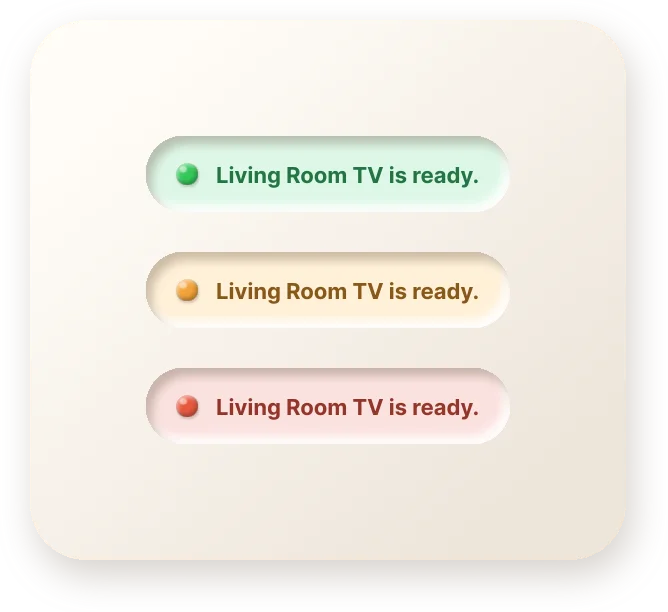
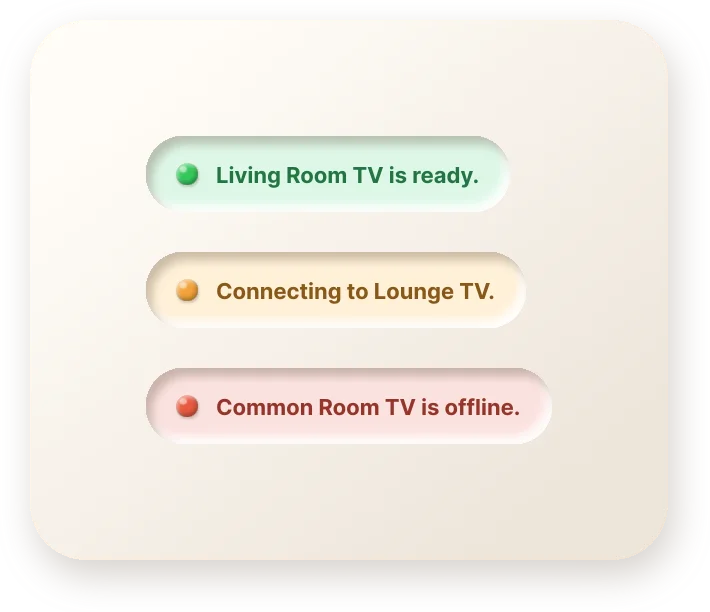
feat(work): recapture status-toasts sheet from Figma (98:2784)
Updated frame recaptured via SVG-strip recipe: distinct per-device toast
copy, 710x612, transparency preserved. Cell dims updated to match.

diff --git a/nextjs-app/shared/components/pages/Work/HomeRemote/HomeRemotePage.tsx b/nextjs-app/shared/components/pages/Work/HomeRemote/HomeRemotePage.tsx
@@ -308,7 +308,7 @@ export function HomeRemotePage({ nav }: { nav?: React.ReactNode }) {
             type: "image",
             src: "/images/portfolio/home-remote/sheet-toasts.webp",
             alt: "Status toasts in available, warning and error tints",
-            width: 668,
+            width: 710,
             height: 612,
             caption: "Status is tinted and worded, never color alone.",
           },
